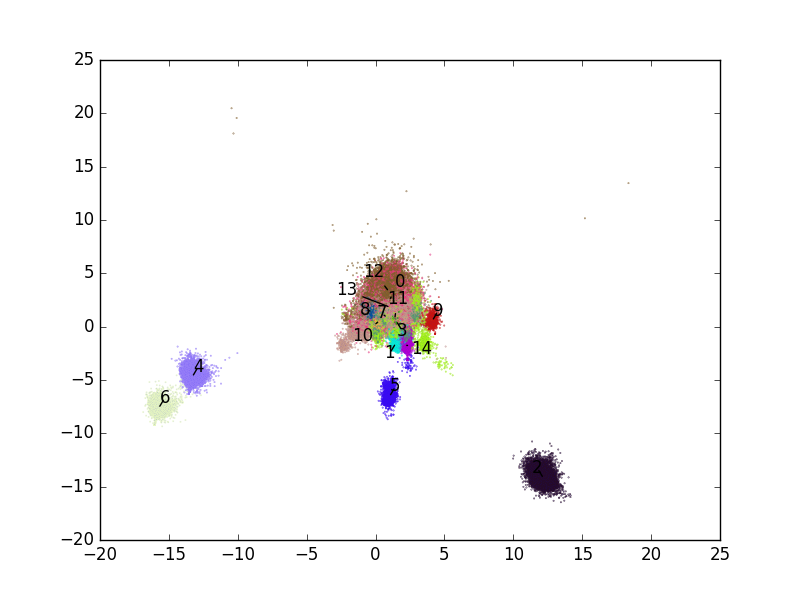
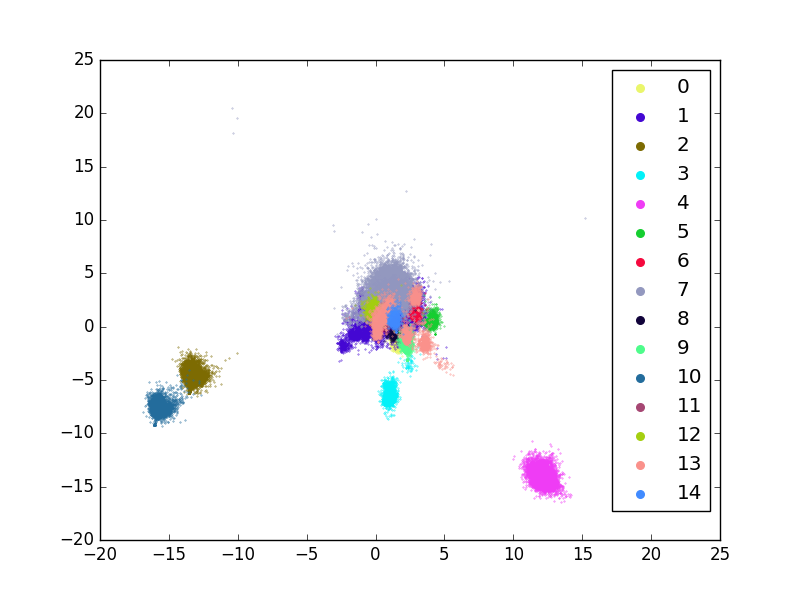
Improved subclass scatter plot.

diff --git a/scripts/embedding_analysis/analyze_plot_subclass_offset_clusters.py b/scripts/embedding_analysis/analyze_plot_subclass_offset_clusters.py
@@ -5,7 +5,6 @@ from itertools import groupby
 
 import matplotlib.pyplot as plt
 import numpy as np
-from adjustText import adjust_text
 from sklearn.cluster import KMeans
 from sklearn.decomposition import PCA
 
@@ -73,11 +72,9 @@ def main():
     pca = PCA(n_components=2)
     pca.fit(offsets)
     offsets = pca.transform(offsets)
-    cluster_centers = pca.transform(ms.cluster_centers_)
     logging.log(level=logging.INFO, msg='executed pca')
 
     xs, ys = offsets.T
-    c_xs, c_ys = cluster_centers.T
 
     colors = []
     for i in range(n_clusters):
@@ -86,10 +83,15 @@ def main():
     result['colors'] = colors
 
     logging.log(level=logging.INFO, msg='create plot with {} points'.format(c_offset))
-    plt.scatter(xs, ys, s=0.1, edgecolors=[colors[cluster] for cluster in clusters])
-
-    adjust_text([plt.text(c_xs[c], c_ys[c], str(c)) for c in range(n_clusters)],
-                arrowprops=dict(arrowstyle="-", color='#000000'))
+    handles = list()
+    for cluster in range(n_clusters):
+        handle = plt.scatter([x[1] for x in filter(lambda v: clusters[v[0]] == cluster, enumerate(xs))],
+                             [y[1] for y in filter(lambda v: clusters[v[0]] == cluster, enumerate(ys))],
+                             s=0.1, color=colors[cluster])
+        handles.append(handle)
+    legend = plt.legend(handles, list(range(n_clusters)), scatterpoints=1)
+    for handle in legend.legendHandles:
+        handle._sizes = [30]
     logging.log(level=logging.INFO, msg='save plot to {}'.format(plot_output))
     plt.savefig(plot_output)
 
